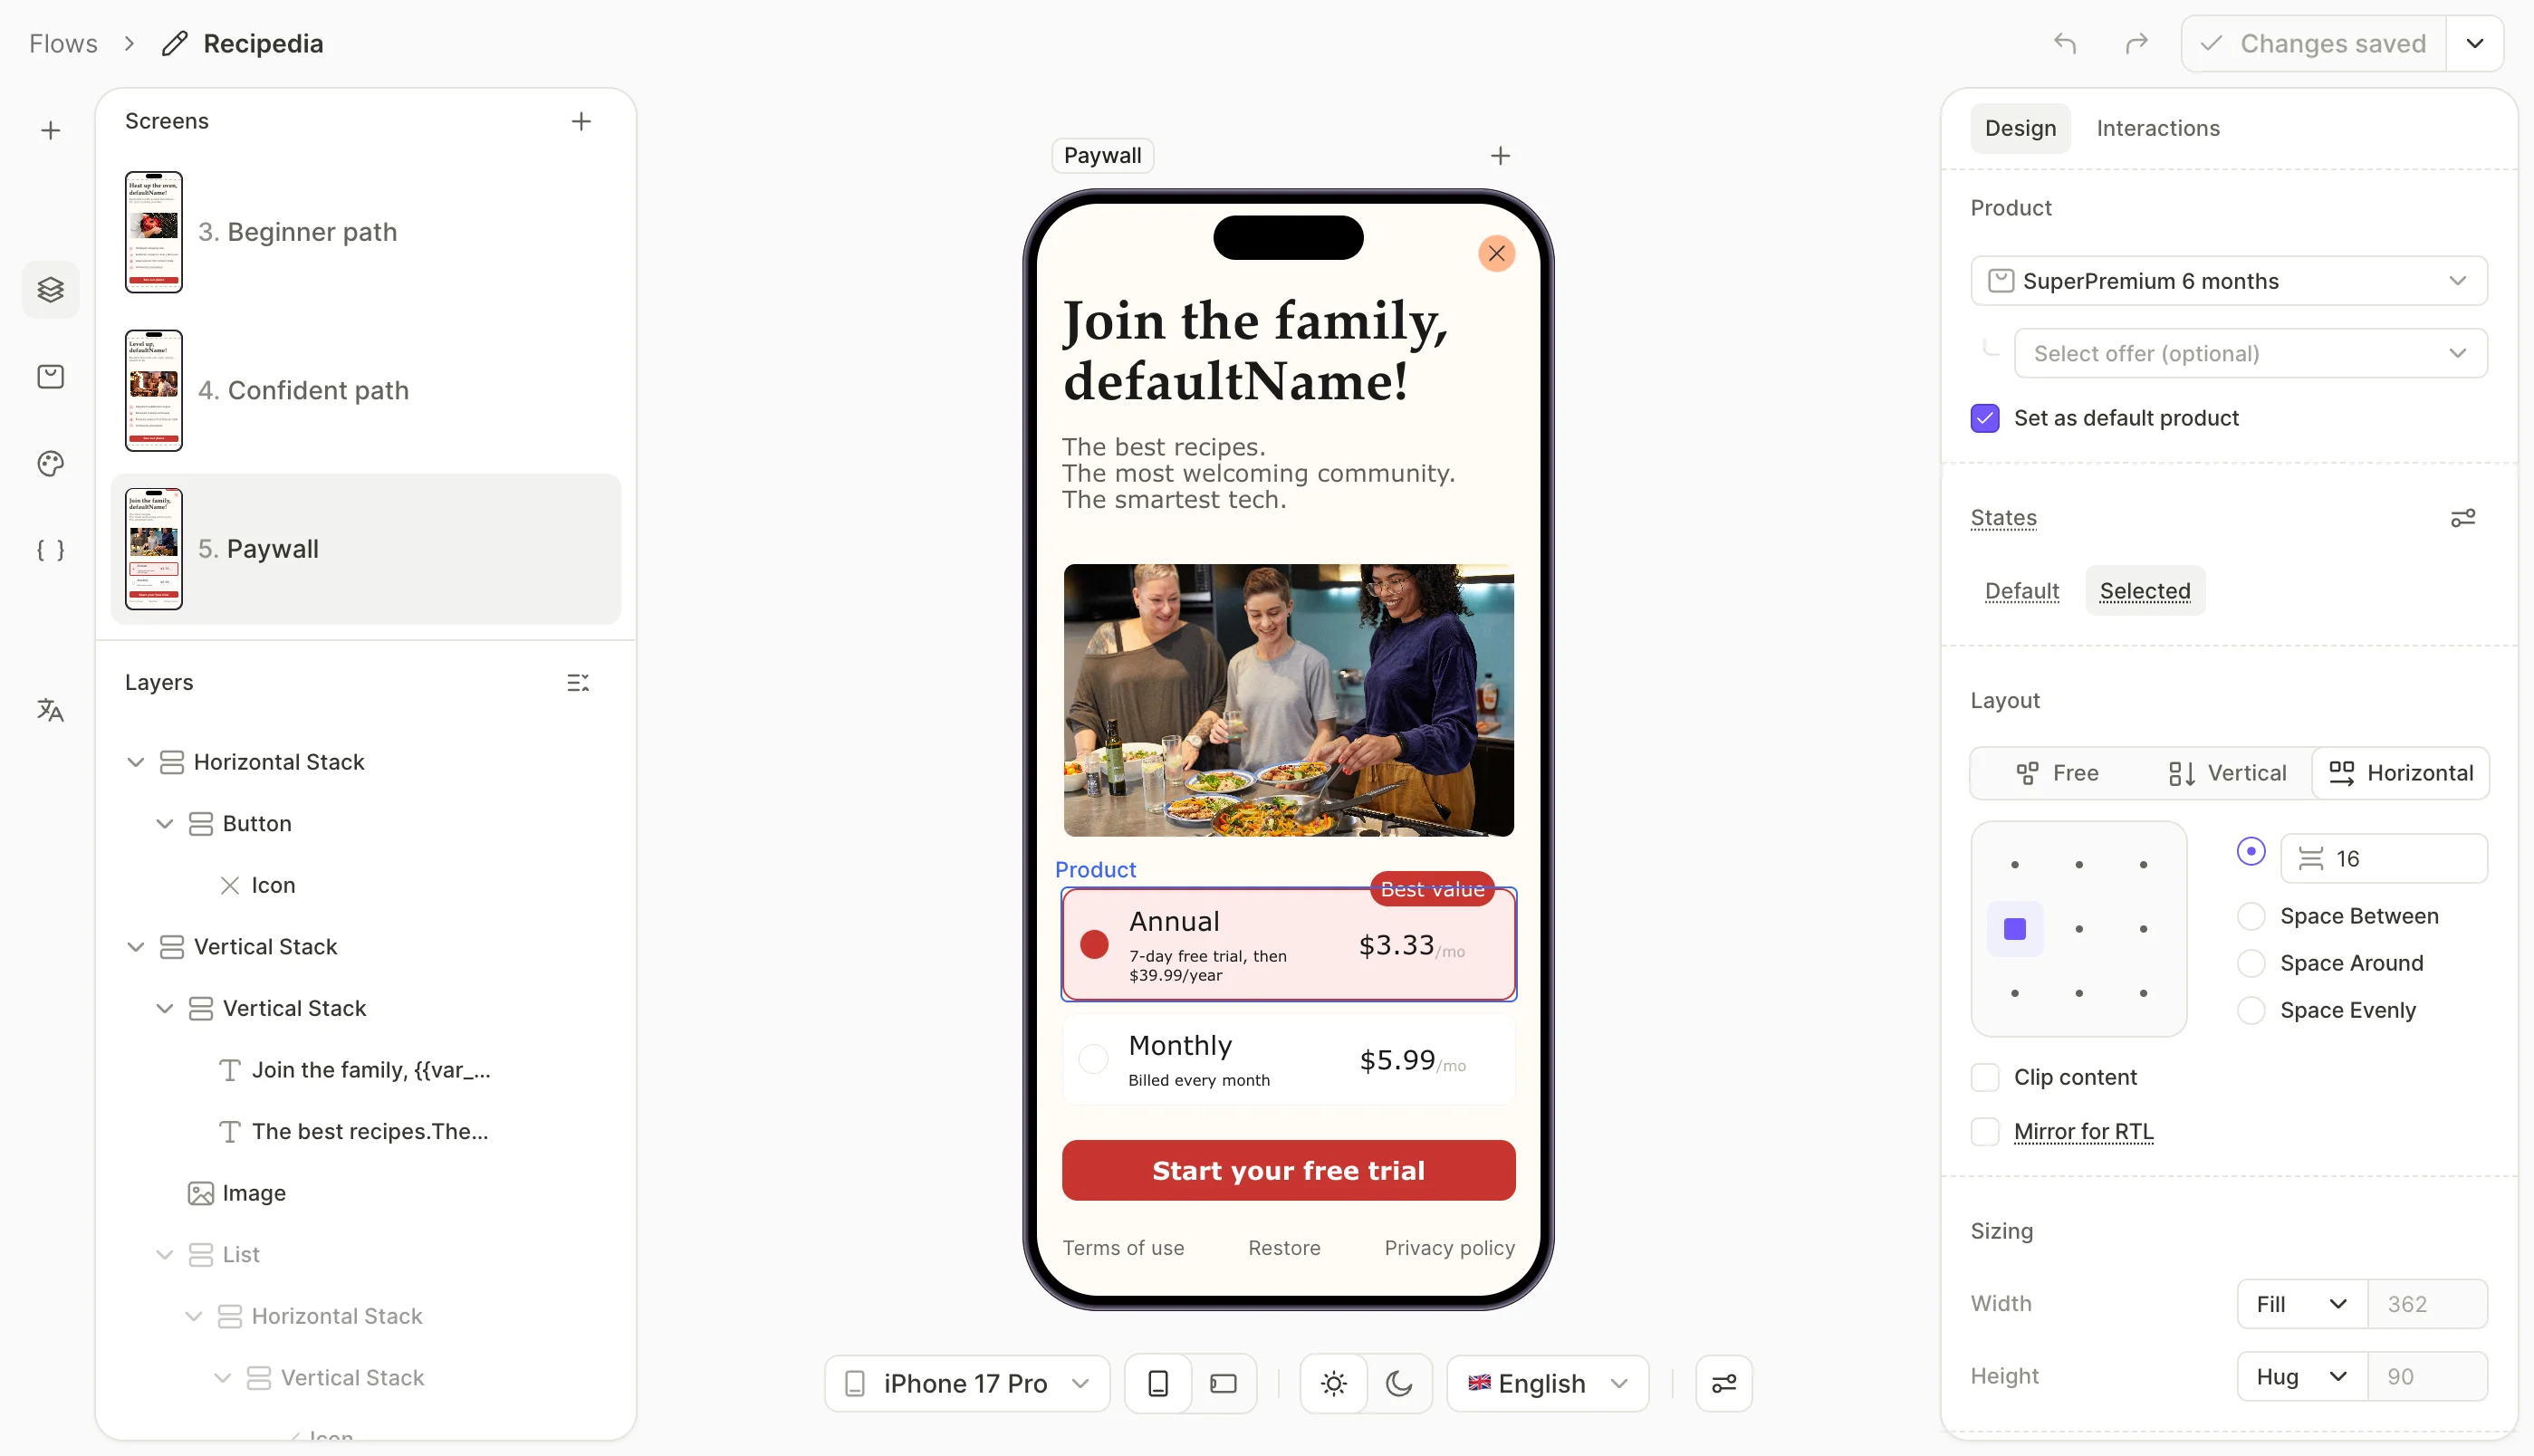
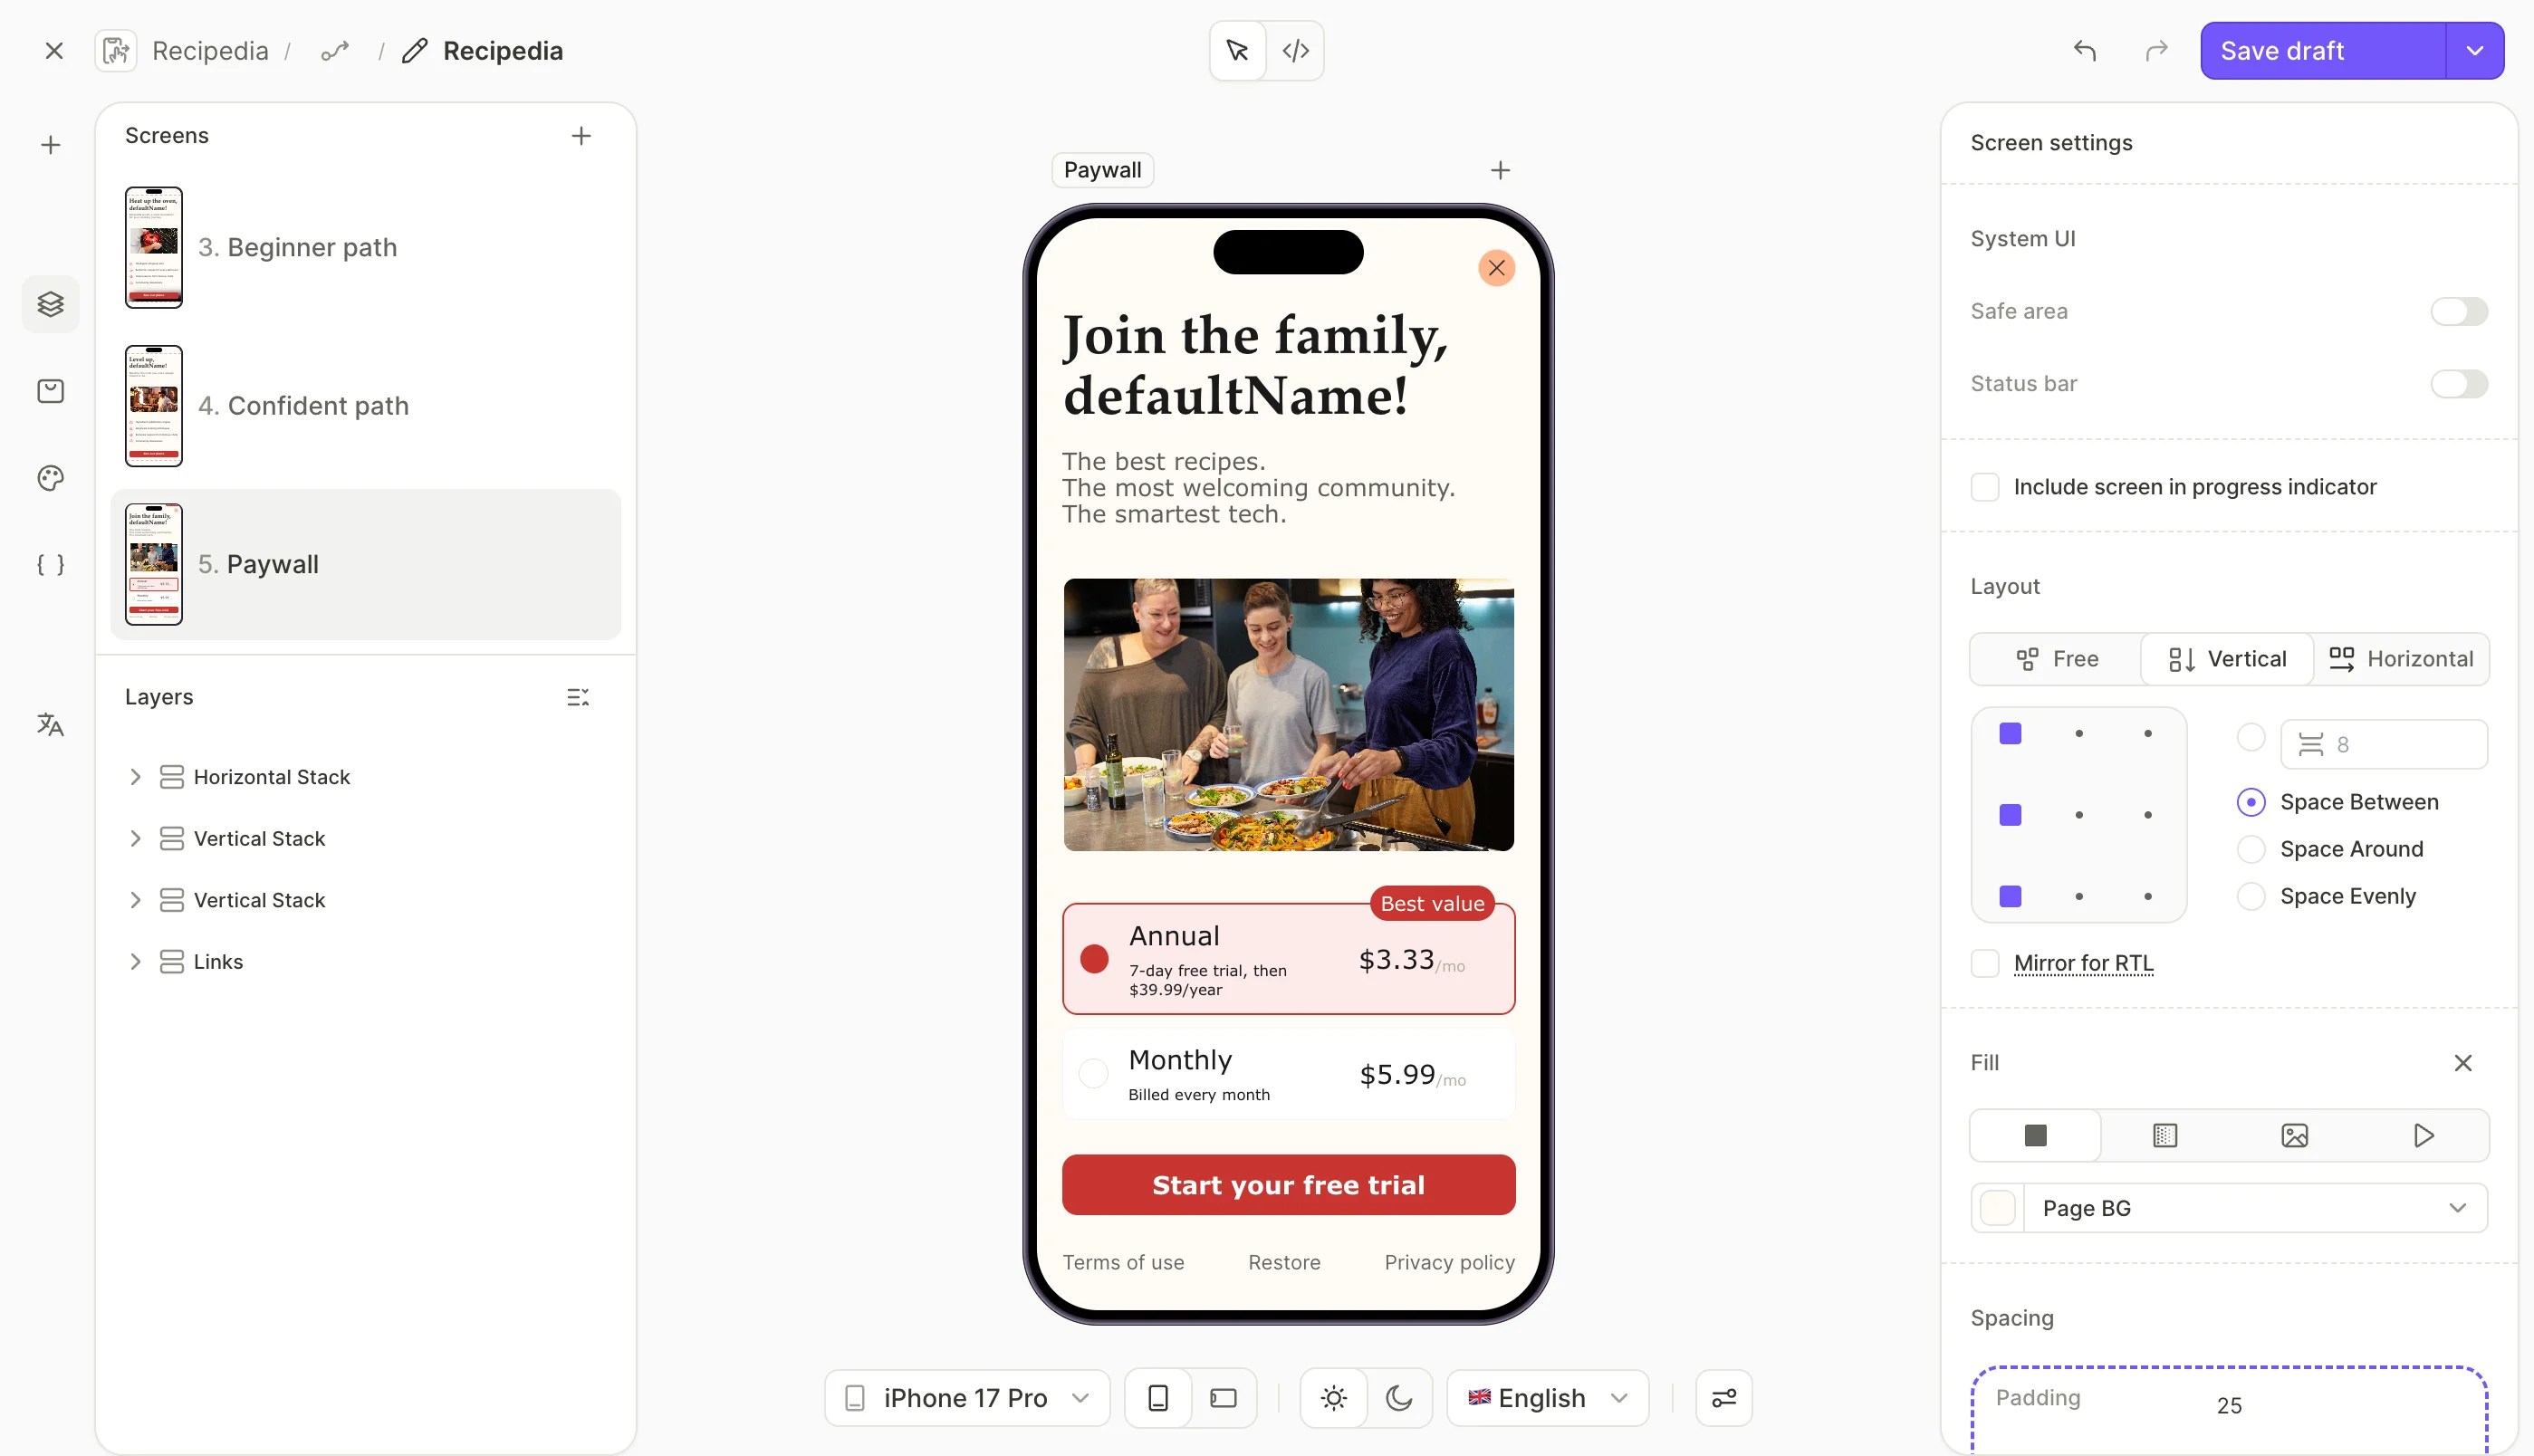
review

diff --git a/src/assets/Inline/_gallery.html b/src/assets/Inline/_gallery.html
@@ -59,6 +59,7 @@
 <div class="card" data-copy="<Inline id=&quot;align-middle.svg&quot; alt=&quot;Align Middle&quot; />"><div class="icon"><svg width="16" height="16" viewBox="0 0 16 16" fill="none" xmlns="http://www.w3.org/2000/svg"><path d="M2 7.99998H14M8 1.33331V5.66665M8 5.66665L10.6667 2.99998M8 5.66665L5.33333 2.99998M8 14.6666V10.3333M8 10.3333L10.6667 13M8 10.3333L5.33333 13" stroke="currentColor" stroke-width="1.25" stroke-linecap="round" stroke-linejoin="round"></path></svg></div><div class="name">align-middle.svg</div></div>
 <div class="card" data-copy="<Inline id=&quot;align-right.svg&quot; alt=&quot;Align Right&quot; />"><div class="icon"><svg width="16" height="16" viewBox="0 0 16 16" fill="none" xmlns="http://www.w3.org/2000/svg"><path d="M14.0001 6.66667H5.33341M14.0001 4H2.66675M14.0001 9.33333H2.66675M14.0001 12H5.33341" stroke="currentColor" stroke-width="1.25" stroke-linecap="round" stroke-linejoin="round"></path></svg></div><div class="name">align-right.svg</div></div>
 <div class="card" data-copy="<Inline id=&quot;align-top.svg&quot; alt=&quot;Align Top&quot; />"><div class="icon"><svg width="16" height="16" viewBox="0 0 16 16" fill="none" xmlns="http://www.w3.org/2000/svg"><path d="M14 2H2M8 14V4.66667M8 4.66667L3.33333 9.33333M8 4.66667L12.6667 9.33333" stroke="currentColor" stroke-width="1.25" stroke-linecap="round" stroke-linejoin="round"></path></svg></div><div class="name">align-top.svg</div></div>
+<div class="card" data-copy="<Inline id=&quot;app.svg&quot; alt=&quot;App&quot; />"><div class="icon"><svg width="16" height="16" viewBox="0 0 16 16" fill="none" xmlns="http://www.w3.org/2000/svg"><path d="M5.7943 14.4412C5.96891 14.7389 6.35184 14.8388 6.6496 14.6642C6.94735 14.4895 7.04719 14.1066 6.87258 13.8089L6.33344 14.125L5.7943 14.4412ZM4.95907 11.7813L4.4157 12.0902L4.41993 12.0974L4.95907 11.7813ZM6.58282 10.8438L6.04364 11.1599C6.04645 11.1646 6.04933 11.1694 6.05226 11.1741L6.58282 10.8438ZM7.45844 12.25L6.92789 12.5804C7.07537 12.8172 7.36198 12.9276 7.63024 12.8509C7.89851 12.7742 8.08344 12.529 8.08344 12.25H7.45844ZM8.70844 9.81251C8.70844 10.1577 8.98827 10.4375 9.33344 10.4375C9.67862 10.4375 9.95844 10.1577 9.95844 9.81251H9.33344H8.70844ZM11.2084 9.81251H11.8334H11.2084ZM10.5834 10.5625C10.5834 10.9077 10.8633 11.1875 11.2084 11.1875C11.5536 11.1875 11.8334 10.9077 11.8334 10.5625H11.2084H10.5834ZM13.0834 10.5625H13.7084H13.0834ZM12.1494 13.8455C11.9951 14.1542 12.1202 14.5297 12.4289 14.684C12.7377 14.8384 13.1131 14.7133 13.2675 14.4045L12.7084 14.125L12.1494 13.8455ZM13.9004 4.68307C13.6563 4.43899 13.2606 4.43899 13.0165 4.68307C12.7724 4.92715 12.7724 5.32288 13.0165 5.56696L13.4584 5.12501L13.9004 4.68307ZM14.9584 6.62501L15.4004 7.06696C15.6445 6.82288 15.6445 6.42715 15.4004 6.18307L14.9584 6.62501ZM13.0165 7.68307C12.7724 7.92715 12.7724 8.32288 13.0165 8.56696C13.2606 8.81103 13.6563 8.81103 13.9004 8.56696L13.4584 8.12501L13.0165 7.68307ZM11.5834 6.00001C11.2383 6.00001 10.9584 6.27984 10.9584 6.62501C10.9584 6.97019 11.2383 7.25001 11.5834 7.25001V6.62501V6.00001ZM3.7335 15.2916C4.07867 15.2916 4.3585 15.0118 4.3585 14.6666C4.3585 14.3215 4.07867 14.0416 3.7335 14.0416V14.6666V15.2916ZM10.0418 4.6765C10.0418 5.02168 10.3216 5.3015 10.6668 5.3015C11.012 5.3015 11.2918 5.02168 11.2918 4.6765H10.6668H10.0418ZM6.33344 14.125L6.87258 13.8089L5.49821 11.4651L4.95907 11.7813L4.41993 12.0974L5.7943 14.4412L6.33344 14.125ZM4.95907 11.7813L5.50239 11.4724C5.4616 11.4006 5.45085 11.3157 5.47247 11.236L4.8693 11.0723L4.26614 10.9085C4.15803 11.3067 4.21181 11.7315 4.41575 12.0902L4.95907 11.7813ZM4.8693 11.0723L5.47247 11.236C5.49409 11.1564 5.54633 11.0885 5.6178 11.0473L5.30529 10.506L4.99279 9.96474C4.63546 10.1711 4.37424 10.5103 4.26614 10.9085L4.8693 11.0723ZM5.30529 10.506L5.6178 11.0473C5.68926 11.006 5.77415 10.9947 5.85393 11.0158L6.01368 10.4115L6.17343 9.8073C5.77453 9.70184 5.35011 9.75844 4.99279 9.96474L5.30529 10.506ZM6.01368 10.4115L5.85393 11.0158C5.93371 11.0369 6.00191 11.0887 6.04364 11.1599L6.58282 10.8438L7.122 10.5277C6.91332 10.1717 6.57233 9.91276 6.17343 9.8073L6.01368 10.4115ZM6.58282 10.8438L6.05226 11.1741L6.92789 12.5804L7.45844 12.25L7.989 11.9197L7.11337 10.5134L6.58282 10.8438ZM7.45844 12.25H8.08344V7.18751H7.45844H6.83344V12.25H7.45844ZM7.45844 7.18751H8.08344C8.08344 7.10463 8.11637 7.02515 8.17497 6.96654L7.73303 6.5246L7.29109 6.08266C6.99806 6.37569 6.83344 6.77311 6.83344 7.18751H7.45844ZM7.73303 6.5246L8.17497 6.96654C8.23358 6.90794 8.31306 6.87501 8.39594 6.87501V6.25001V5.62501C7.98154 5.62501 7.58412 5.78963 7.29109 6.08266L7.73303 6.5246ZM8.39594 6.25001V6.87501C8.47882 6.87501 8.55831 6.90794 8.61691 6.96654L9.05886 6.5246L9.5008 6.08266C9.20777 5.78963 8.81034 5.62501 8.39594 5.62501V6.25001ZM9.05886 6.5246L8.61691 6.96654C8.67552 7.02515 8.70844 7.10464 8.70844 7.18751H9.33344H9.95844C9.95844 6.77311 9.79382 6.37568 9.5008 6.08266L9.05886 6.5246ZM9.33344 7.18751H8.70844V9.81251H9.33344H9.95844V7.18751H9.33344ZM9.33344 9.81251H9.95844C9.95844 9.72963 9.99137 9.65015 10.05 9.59154L9.60803 9.1496L9.16609 8.70766C8.87307 9.00068 8.70844 9.39811 8.70844 9.81251H9.33344ZM13.4584 5.12501L13.0165 5.56696L14.5165 7.06696L14.9584 6.62501L15.4004 6.18307L13.9004 4.68307L13.4584 5.12501ZM14.9584 6.62501L14.5165 6.18307L13.0165 7.68307L13.4584 8.12501L13.9004 8.56696L15.4004 7.06696L14.9584 6.62501ZM11.5834 6.62501V7.25001H14.9584V6.62501V6.00001H11.5834V6.62501Z" fill="currentColor"></path></svg></div><div class="name">app.svg</div></div>
 <div class="card" data-copy="<Inline id=&quot;border-dashed.svg&quot; alt=&quot;Border Dashed&quot; />"><div class="icon"><svg width="16" height="16" viewBox="0 0 16 16" fill="none" xmlns="http://www.w3.org/2000/svg"><path d="M2 3.5V2.5C2 2.36739 2.05268 2.24021 2.14645 2.14645C2.24021 2.05268 2.36739 2 2.5 2H4.5" stroke="currentColor" stroke-width="1.25" stroke-linecap="round" stroke-linejoin="round"></path><path d="M2 9.23633L2 6.83936" stroke="currentColor" stroke-width="1.25" stroke-linecap="round" stroke-linejoin="round"></path><path d="M4.5 14H2.5C2.36739 14 2.24021 13.9473 2.14645 13.8536C2.05268 13.7598 2 13.6326 2 13.5V12.5" stroke="currentColor" stroke-width="1.25" stroke-linecap="round" stroke-linejoin="round"></path><path d="M9 14H7" stroke="currentColor" stroke-width="1.25" stroke-linecap="round" stroke-linejoin="round"></path><path d="M14 12.5V13.5C14 13.6326 13.9473 13.7598 13.8536 13.8536C13.7598 13.9473 13.6326 14 13.5 14H11.5" stroke="currentColor" stroke-width="1.25" stroke-linecap="round" stroke-linejoin="round"></path><path d="M14 6.83936L14 9.23633" stroke="currentColor" stroke-width="1.25" stroke-linecap="round" stroke-linejoin="round"></path><path d="M11.5 2H13.5C13.6326 2 13.7598 2.05268 13.8536 2.14645C13.9473 2.24021 14 2.36739 14 2.5V3.5" stroke="currentColor" stroke-width="1.25" stroke-linecap="round" stroke-linejoin="round"></path><path d="M7 2H9" stroke="currentColor" stroke-width="1.25" stroke-linecap="round" stroke-linejoin="round"></path></svg></div><div class="name">border-dashed.svg</div></div>
 <div class="card" data-copy="<Inline id=&quot;border-none.svg&quot; alt=&quot;Border None&quot; />"><div class="icon"><svg width="16" height="16" viewBox="0 0 16 16" fill="none" xmlns="http://www.w3.org/2000/svg"><path d="M3.33325 8H12.6666" stroke="currentColor" stroke-width="1.25" stroke-linecap="round" stroke-linejoin="round"></path></svg></div><div class="name">border-none.svg</div></div>
 <div class="card" data-copy="<Inline id=&quot;border-outline.svg&quot; alt=&quot;Border Outline&quot; />"><div class="icon"><svg width="16" height="16" viewBox="0 0 16 16" fill="none" xmlns="http://www.w3.org/2000/svg"><path d="M13.5 2H2.5C2.22386 2 2 2.26863 2 2.6V13.4C2 13.7314 2.22386 14 2.5 14H13.5C13.7761 14 14 13.7314 14 13.4V2.6C14 2.26863 13.7761 2 13.5 2Z" stroke="currentColor" stroke-width="1.25" stroke-linecap="round" stroke-linejoin="round"></path></svg></div><div class="name">border-outline.svg</div></div>
@@ -66,6 +67,7 @@
 <div class="card" data-copy="<Inline id=&quot;collapse-layer.svg&quot; alt=&quot;Collapse Layer&quot; />"><div class="icon"><svg width="16" height="16" viewBox="0 0 16 16" fill="none" xmlns="http://www.w3.org/2000/svg"><path d="M4 6L8 10L12 6" stroke="currentColor" stroke-width="1.25" stroke-linecap="round" stroke-linejoin="round"></path></svg></div><div class="name">collapse-layer.svg</div></div>
 <div class="card" data-copy="<Inline id=&quot;collapse.svg&quot; alt=&quot;Collapse&quot; />"><div class="icon"><svg width="16" height="16" viewBox="0 0 16 16" fill="none" xmlns="http://www.w3.org/2000/svg" class="size-4"><path d="M3 8H8.5M3 4H8.5M3 12H8.5M13.5 12L12.25 10.75L11 12M10.8086 4L12.0586 5.25L13.3086 4" stroke="currentColor" stroke-width="1.25" stroke-linecap="round" stroke-linejoin="round"></path></svg></div><div class="name">collapse.svg</div></div>
 <div class="card" data-copy="<Inline id=&quot;context.svg&quot; alt=&quot;Context&quot; />"><div class="icon"><svg width="16" height="16" viewBox="0 0 16 16" fill="none" xmlns="http://www.w3.org/2000/svg" class="size-4"><path d="M8.00016 8.66663C8.36835 8.66663 8.66683 8.36815 8.66683 7.99996C8.66683 7.63177 8.36835 7.33329 8.00016 7.33329C7.63197 7.33329 7.3335 7.63177 7.3335 7.99996C7.3335 8.36815 7.63197 8.66663 8.00016 8.66663Z" fill="currentColor"></path><path d="M8.00016 3.99996C8.36835 3.99996 8.66683 3.70148 8.66683 3.33329C8.66683 2.9651 8.36835 2.66663 8.00016 2.66663C7.63197 2.66663 7.3335 2.9651 7.3335 3.33329C7.3335 3.70148 7.63197 3.99996 8.00016 3.99996Z" fill="currentColor"></path><path d="M8.00016 13.3333C8.36835 13.3333 8.66683 13.0348 8.66683 12.6666C8.66683 12.2984 8.36835 12 8.00016 12C7.63197 12 7.3335 12.2984 7.3335 12.6666C7.3335 13.0348 7.63197 13.3333 8.00016 13.3333Z" fill="currentColor"></path><path d="M8.00016 8.66663C8.36835 8.66663 8.66683 8.36815 8.66683 7.99996C8.66683 7.63177 8.36835 7.33329 8.00016 7.33329C7.63197 7.33329 7.3335 7.63177 7.3335 7.99996C7.3335 8.36815 7.63197 8.66663 8.00016 8.66663Z" stroke="currentColor" stroke-width="1.25" stroke-linecap="round" stroke-linejoin="round"></path><path d="M8.00016 3.99996C8.36835 3.99996 8.66683 3.70148 8.66683 3.33329C8.66683 2.9651 8.36835 2.66663 8.00016 2.66663C7.63197 2.66663 7.3335 2.9651 7.3335 3.33329C7.3335 3.70148 7.63197 3.99996 8.00016 3.99996Z" stroke="currentColor" stroke-width="1.25" stroke-linecap="round" stroke-linejoin="round"></path><path d="M8.00016 13.3333C8.36835 13.3333 8.66683 13.0348 8.66683 12.6666C8.66683 12.2984 8.36835 12 8.00016 12C7.63197 12 7.3335 12.2984 7.3335 12.6666C7.3335 13.0348 7.63197 13.3333 8.00016 13.3333Z" stroke="currentColor" stroke-width="1.25" stroke-linecap="round" stroke-linejoin="round"></path></svg></div><div class="name">context.svg</div></div>
+<div class="card" data-copy="<Inline id=&quot;cursor.svg&quot; alt=&quot;Cursor&quot; />"><div class="icon"><svg width="16" height="16" viewBox="0 0 16 16" fill="none" xmlns="http://www.w3.org/2000/svg"><path d="M8.66676 8.66667L12.6668 12.6667M11.9762 7.16753L8.63569 8.30212C8.54437 8.33314 8.4987 8.34865 8.46072 8.37476C8.42708 8.39788 8.39797 8.42699 8.37485 8.46063C8.34874 8.49861 8.33323 8.54427 8.30221 8.6356L7.16762 11.9761C7.02693 12.3903 6.95659 12.5974 6.84659 12.66C6.75128 12.7143 6.63537 12.7182 6.53662 12.6705C6.42265 12.6154 6.33854 12.4135 6.1703 12.0097L2.49815 3.19549C2.34205 2.8208 2.264 2.63345 2.30198 2.51624C2.33493 2.41455 2.41464 2.33483 2.51633 2.30188C2.63354 2.26391 2.82089 2.34196 3.19558 2.49806L12.0098 6.17021C12.4136 6.33845 12.6155 6.42256 12.6706 6.53653C12.7183 6.63528 12.7144 6.75118 12.6601 6.8465C12.5975 6.9565 12.3904 7.02684 11.9762 7.16753Z" stroke="currentColor" stroke-width="1.25" stroke-linecap="round" stroke-linejoin="round"></path></svg></div><div class="name">cursor.svg</div></div>
 <div class="card" data-copy="<Inline id=&quot;dark-mode.svg&quot; alt=&quot;Dark Mode&quot; />"><div class="icon"><svg width="16" height="16" viewBox="0 0 16 16" fill="none" xmlns="http://www.w3.org/2000/svg"><g clip-path="url(#dark-mode-clip0_459_300)"><path d="M14.6365 8.63773C13.7185 10.2479 11.986 11.3335 9.99992 11.3335C7.0544 11.3335 4.66659 8.94573 4.66659 6.00021C4.66659 4.01396 5.75237 2.28132 7.36276 1.36343C3.97975 1.6842 1.33325 4.53306 1.33325 8.00005C1.33325 11.6819 4.31802 14.6667 7.99992 14.6667C11.4667 14.6667 14.3155 12.0205 14.6365 8.63773Z" stroke="currentColor" stroke-width="1.25" stroke-linecap="round" stroke-linejoin="round"></path></g><defs><clipPath id="dark-mode-clip0_459_300"><rect width="16" height="16" fill="white"></rect></clipPath></defs></svg></div><div class="name">dark-mode.svg</div></div>
 <div class="card" data-copy="<Inline id=&quot;device-outline.svg&quot; alt=&quot;Device Outline&quot; />"><div class="icon"><svg width="16" height="16" viewBox="0 0 16 16" fill="none"><path d="M12.6667 4.66667V11.3333M3.33333 4.66667V11.3333M11.3333 3.33333L4.66667 3.33333M11.3333 12.6667H4.66667M3.06667 4.66667H3.6C3.97337 4.66667 4.16005 4.66667 4.30266 4.594C4.4281 4.53009 4.53009 4.4281 4.594 4.30266C4.66667 4.16005 4.66667 3.97337 4.66667 3.6V3.06667C4.66667 2.6933 4.66667 2.50661 4.594 2.36401C4.53009 2.23856 4.4281 2.13658 4.30266 2.07266C4.16005 2 3.97337 2 3.6 2H3.06667C2.6933 2 2.50661 2 2.36401 2.07266C2.23856 2.13658 2.13658 2.23856 2.07266 2.36401C2 2.50661 2 2.6933 2 3.06667V3.6C2 3.97337 2 4.16005 2.07266 4.30266C2.13658 4.4281 2.23856 4.53009 2.36401 4.594C2.50661 4.66667 2.6933 4.66667 3.06667 4.66667ZM3.06667 14H3.6C3.97337 14 4.16005 14 4.30266 13.9273C4.4281 13.8634 4.53009 13.7614 4.594 13.636C4.66667 13.4934 4.66667 13.3067 4.66667 12.9333V12.4C4.66667 12.0266 4.66667 11.8399 4.594 11.6973C4.53009 11.5719 4.4281 11.4699 4.30266 11.406C4.16005 11.3333 3.97337 11.3333 3.6 11.3333H3.06667C2.6933 11.3333 2.50661 11.3333 2.36401 11.406C2.23856 11.4699 2.13658 11.5719 2.07266 11.6973C2 11.8399 2 12.0266 2 12.4V12.9333C2 13.3067 2 13.4934 2.07266 13.636C2.13658 13.7614 2.23856 13.8634 2.36401 13.9273C2.50661 14 2.6933 14 3.06667 14ZM12.4 4.66667H12.9333C13.3067 4.66667 13.4934 4.66667 13.636 4.594C13.7614 4.53009 13.8634 4.4281 13.9273 4.30266C14 4.16005 14 3.97337 14 3.6V3.06667C14 2.6933 14 2.50661 13.9273 2.36401C13.8634 2.23856 13.7614 2.13658 13.636 2.07266C13.4934 2 13.3067 2 12.9333 2H12.4C12.0266 2 11.8399 2 11.6973 2.07266C11.5719 2.13658 11.4699 2.23856 11.406 2.36401C11.3333 2.50661 11.3333 2.6933 11.3333 3.06667V3.6C11.3333 3.97337 11.3333 4.16005 11.406 4.30266C11.4699 4.4281 11.5719 4.53009 11.6973 4.594C11.8399 4.66667 12.0266 4.66667 12.4 4.66667ZM12.4 14H12.9333C13.3067 14 13.4934 14 13.636 13.9273C13.7614 13.8634 13.8634 13.7614 13.9273 13.636C14 13.4934 14 13.3067 14 12.9333V12.4C14 12.0266 14 11.8399 13.9273 11.6973C13.8634 11.5719 13.7614 11.4699 13.636 11.406C13.4934 11.3333 13.3067 11.3333 12.9333 11.3333H12.4C12.0266 11.3333 11.8399 11.3333 11.6973 11.406C11.5719 11.4699 11.4699 11.5719 11.406 11.6973C11.3333 11.8399 11.3333 12.0266 11.3333 12.4V12.9333C11.3333 13.3067 11.3333 13.4934 11.406 13.636C11.4699 13.7614 11.5719 13.8634 11.6973 13.9273C11.8399 14 12.0266 14 12.4 14Z" stroke="currentColor" stroke-width="1.25" stroke-linecap="round" stroke-linejoin="round"/></svg></div><div class="name">device-outline.svg</div></div>
 <div class="card" data-copy="<Inline id=&quot;download.svg&quot; alt=&quot;Download&quot; />"><div class="icon"><svg width="16" height="16" viewBox="0 0 16 16" fill="none"><path d="M14.5 12.5C14.5 12.7652 14.3946 13.0195 14.207 13.207C14.0195 13.3946 13.7652 13.5 13.5 13.5H12.2373C12.6251 13.2046 12.9796 12.8685 13.2979 12.5H13.5V12.2549C13.9109 11.7332 14.2495 11.1526 14.5 10.5264V12.5ZM1.5 10.5264C1.75049 11.1526 2.08907 11.7332 2.5 12.2549V12.5H2.70215C3.0204 12.8685 3.37489 13.2046 3.7627 13.5H2.5C2.23478 13.5 1.98051 13.3946 1.79297 13.207C1.60543 13.0195 1.5 12.7652 1.5 12.5V10.5264ZM3.58203 2.5C2.66726 3.24537 1.94533 4.21712 1.5 5.33008V3.5C1.5 3.23478 1.60543 2.98051 1.79297 2.79297C1.98051 2.60543 2.23478 2.5 2.5 2.5H3.58203ZM13.5 2.5C13.7652 2.5 14.0195 2.60543 14.207 2.79297C14.3946 2.98051 14.5 3.23478 14.5 3.5V5.33008C14.0547 4.21712 13.3327 3.24537 12.418 2.5H13.5Z" fill="currentColor"/><path d="M4.57142 8.40063C3.98061 8.40063 3.40307 8.57583 2.91183 8.90407C2.42059 9.2323 2.03771 9.69884 1.81162 10.2447C1.58552 10.7905 1.52637 11.3911 1.64163 11.9706C1.75689 12.5501 2.04139 13.0823 2.45916 13.5001C2.87692 13.9179 3.40919 14.2024 3.98865 14.3176C4.56811 14.4329 5.16873 14.3737 5.71457 14.1476C6.26041 13.9215 6.72694 13.5387 7.05518 13.0474C7.38341 12.5562 7.55861 11.9786 7.55861 11.3878C7.55777 10.5958 7.24278 9.83651 6.68276 9.27649C6.12273 8.71646 5.36341 8.40147 4.57142 8.40063ZM5.65313 11.7802L4.73399 12.6993C4.71265 12.7207 4.68731 12.7376 4.65941 12.7492C4.63152 12.7608 4.60162 12.7667 4.57142 12.7667C4.54122 12.7667 4.51132 12.7608 4.48343 12.7492C4.45553 12.7376 4.43019 12.7207 4.40885 12.6993L3.48971 11.7802C3.4466 11.7371 3.42237 11.6786 3.42237 11.6176C3.42237 11.5566 3.4466 11.4982 3.48971 11.455C3.53283 11.4119 3.59131 11.3877 3.65228 11.3877C3.71326 11.3877 3.77174 11.4119 3.81486 11.455L4.34164 11.9821V10.2389C4.34164 10.178 4.36585 10.1195 4.40894 10.0764C4.45203 10.0333 4.51048 10.0091 4.57142 10.0091C4.63236 10.0091 4.69081 10.0333 4.7339 10.0764C4.77699 10.1195 4.8012 10.178 4.8012 10.2389V11.9821L5.32798 11.455C5.3711 11.4119 5.42958 11.3877 5.49055 11.3877C5.55153 11.3877 5.61001 11.4119 5.65313 11.455C5.69624 11.4982 5.72047 11.5566 5.72047 11.6176C5.72047 11.6786 5.69624 11.7371 5.65313 11.7802Z" fill="currentColor"/></svg></div><div class="name">download.svg</div></div>
@@ -75,6 +77,7 @@
 <div class="card" data-copy="<Inline id=&quot;fill-image.svg&quot; alt=&quot;Fill Image&quot; />"><div class="icon"><svg width="16" height="16" viewBox="0 0 16 16" fill="none" xmlns="http://www.w3.org/2000/svg"><path d="M2.84798 13.8186L7.24567 9.42091C7.50968 9.1569 7.64169 9.0249 7.79391 8.97544C7.9278 8.93193 8.07203 8.93193 8.20593 8.97544C8.35815 9.0249 8.49016 9.15691 8.75417 9.42091L13.1225 13.7893M9.33325 10L11.2457 8.08758C11.5097 7.82357 11.6417 7.69156 11.7939 7.6421C11.9278 7.5986 12.072 7.5986 12.2059 7.6421C12.3581 7.69156 12.4902 7.82357 12.7542 8.08758L14.6666 10M6.66659 6C6.66659 6.73638 6.06963 7.33333 5.33325 7.33333C4.59687 7.33333 3.99992 6.73638 3.99992 6C3.99992 5.26362 4.59687 4.66667 5.33325 4.66667C6.06963 4.66667 6.66659 5.26362 6.66659 6ZM4.53325 14H11.4666C12.5867 14 13.1467 14 13.5746 13.782C13.9509 13.5903 14.2569 13.2843 14.4486 12.908C14.6666 12.4802 14.6666 11.9201 14.6666 10.8V5.2C14.6666 4.0799 14.6666 3.51984 14.4486 3.09202C14.2569 2.71569 13.9509 2.40973 13.5746 2.21799C13.1467 2 12.5867 2 11.4666 2H4.53325C3.41315 2 2.85309 2 2.42527 2.21799C2.04895 2.40973 1.74299 2.71569 1.55124 3.09202C1.33325 3.51984 1.33325 4.0799 1.33325 5.2V10.8C1.33325 11.9201 1.33325 12.4802 1.55124 12.908C1.74299 13.2843 2.04895 13.5903 2.42527 13.782C2.85309 14 3.41315 14 4.53325 14Z" stroke="currentColor" stroke-width="1.25" stroke-linecap="round" stroke-linejoin="round"></path></svg></div><div class="name">fill-image.svg</div></div>
 <div class="card" data-copy="<Inline id=&quot;fill-solid.svg&quot; alt=&quot;Fill Solid&quot; />"><div class="icon"><svg xmlns="http://www.w3.org/2000/svg" width="16" height="16" viewBox="0 0 16 16" fill="none"><path d="M2.92285 2.0625H13.0771C13.5429 2.06264 13.9375 2.51279 13.9375 3.09082V12.9092C13.9375 13.4872 13.5429 13.9374 13.0771 13.9375H2.92285C2.45707 13.9374 2.06254 13.4872 2.0625 12.9092V3.09082L2.06738 2.98438C2.11234 2.45847 2.48609 2.06264 2.92285 2.0625Z" fill="currentColor" stroke="currentColor" stroke-width="0.125"></path></svg></div><div class="name">fill-solid.svg</div></div>
 <div class="card" data-copy="<Inline id=&quot;fill-video.svg&quot; alt=&quot;Fill Video&quot; />"><div class="icon"><svg width="16" height="16" viewBox="0 0 16 16" fill="none" xmlns="http://www.w3.org/2000/svg"><path d="M3.33325 3.32642C3.33325 2.67898 3.33325 2.35526 3.46825 2.17681C3.58585 2.02135 3.7656 1.92515 3.96018 1.91353C4.18354 1.9002 4.45289 2.07977 4.9916 2.4389L12.002 7.11248C12.4471 7.40923 12.6697 7.55761 12.7472 7.74462C12.815 7.90813 12.815 8.09188 12.7472 8.25538C12.6697 8.4424 12.4471 8.59077 12.002 8.88752L4.9916 13.5611C4.45289 13.9202 4.18354 14.0998 3.96018 14.0865C3.7656 14.0749 3.58585 13.9787 3.46825 13.8232C3.33325 13.6447 3.33325 13.321 3.33325 12.6736V3.32642Z" stroke="currentColor" stroke-width="1.25" stroke-linecap="round" stroke-linejoin="round"></path></svg></div><div class="name">fill-video.svg</div></div>
+<div class="card" data-copy="<Inline id=&quot;flows.svg&quot; alt=&quot;Flows&quot; />"><div class="icon"><svg width="16" height="16" viewBox="0 0 16 16" fill="none" xmlns="http://www.w3.org/2000/svg"><path d="M5 11C5 12.1046 4.10457 13 3 13C1.89543 13 1 12.1046 1 11C1 9.89543 1.89543 9 3 9C4.10457 9 5 9.89543 5 11ZM5 11C10.5 11 7.5 5 13 5H15M13 3L15 5M15 5L13 7" stroke="currentColor" stroke-width="1.25" stroke-linecap="round" stroke-linejoin="round"></path></svg></div><div class="name">flows.svg</div></div>
 <div class="card" data-copy="<Inline id=&quot;font-select.svg&quot; alt=&quot;Font Select&quot; />"><div class="icon"><svg width="16" height="16" viewBox="0 0 16 16" fill="none" xmlns="http://www.w3.org/2000/svg"><g clip-path="url(#font-select-clip0_459_603)"><path d="M9 12L5 3.5L1 12" stroke="currentColor" stroke-width="1.25" stroke-linecap="round" stroke-linejoin="round"></path><path d="M12.5 12C13.6046 12 14.5 11.2165 14.5 10.25C14.5 9.2835 13.6046 8.5 12.5 8.5C11.3954 8.5 10.5 9.2835 10.5 10.25C10.5 11.2165 11.3954 12 12.5 12Z" stroke="currentColor" stroke-width="1.25" stroke-linecap="round" stroke-linejoin="round"></path><path d="M14.5 12V8.25C14.5 7.28375 13.6044 6.5 12.5 6.5C11.9025 6.5 11.3663 6.63625 11 7" stroke="currentColor" stroke-width="1.25" stroke-linecap="round" stroke-linejoin="round"></path><path d="M7.82377 9.5H2.17627" stroke="currentColor" stroke-width="1.25" stroke-linecap="round" stroke-linejoin="round"></path></g><defs><clipPath id="font-select-clip0_459_603"><rect width="16" height="16" fill="white"></rect></clipPath></defs></svg></div><div class="name">font-select.svg</div></div>
 <div class="card" data-copy="<Inline id=&quot;font.svg&quot; alt=&quot;Font&quot; />"><div class="icon"><svg width="16" height="16" viewBox="0 0 16 16" fill="none" xmlns="http://www.w3.org/2000/svg" size="16"><path d="M2.66675 4.66666C2.66675 4.0454 2.66675 3.73477 2.76824 3.48975C2.90357 3.16304 3.16313 2.90348 3.48984 2.76815C3.73486 2.66666 4.04549 2.66666 4.66675 2.66666H11.3334C11.9547 2.66666 12.2653 2.66666 12.5103 2.76815C12.837 2.90348 13.0966 3.16304 13.2319 3.48975C13.3334 3.73477 13.3334 4.0454 13.3334 4.66666M6.00008 13.3333H10.0001M8.00008 2.66666V13.3333" stroke="currentColor" stroke-width="1.25" stroke-linecap="round" stroke-linejoin="round"></path></svg></div><div class="name">font.svg</div></div>
 <div class="card" data-copy="<Inline id=&quot;free-layout.svg&quot; alt=&quot;Free Layout&quot; />"><div class="icon"><svg width="16" height="16" viewBox="0 0 16 16" fill="none" xmlns="http://www.w3.org/2000/svg"><path d="M6.25 3.75H3.25C2.97386 3.75 2.75 3.97386 2.75 4.25V7.25C2.75 7.52614 2.97386 7.75 3.25 7.75H6.25C6.52614 7.75 6.75 7.52614 6.75 7.25V4.25C6.75 3.97386 6.52614 3.75 6.25 3.75Z" stroke="currentColor" stroke-width="1.25" stroke-linecap="round" stroke-linejoin="round"></path><path d="M12.75 2.25H9.75C9.47386 2.25 9.25 2.47386 9.25 2.75V5.75C9.25 6.02614 9.47386 6.25 9.75 6.25H12.75C13.0261 6.25 13.25 6.02614 13.25 5.75V2.75C13.25 2.47386 13.0261 2.25 12.75 2.25Z" stroke="currentColor" stroke-width="1.25" stroke-linecap="round" stroke-linejoin="round"></path><path d="M9.75 9.75H6.75C6.47386 9.75 6.25 9.97386 6.25 10.25V13.25C6.25 13.5261 6.47386 13.75 6.75 13.75H9.75C10.0261 13.75 10.25 13.5261 10.25 13.25V10.25C10.25 9.97386 10.0261 9.75 9.75 9.75Z" stroke="currentColor" stroke-width="1.25" stroke-linecap="round" stroke-linejoin="round"></path></svg></div><div class="name">free-layout.svg</div></div>
@@ -96,7 +99,9 @@
 <div class="card" data-copy="<Inline id=&quot;products.svg&quot; alt=&quot;Products&quot; />"><div class="icon"><svg width="16" height="16" viewBox="0 0 16 16" fill="none" xmlns="http://www.w3.org/2000/svg"><path d="M2.42527 13.782L2.14153 14.3389L2.42527 13.782ZM1.55124 12.908L0.99436 13.1917L1.55124 12.908ZM14.4486 12.908L15.0055 13.1917L14.4486 12.908ZM13.5746 13.782L13.8583 14.3389L13.5746 13.782ZM13.5746 2.21799L13.8583 1.66111L13.5746 2.21799ZM14.4486 3.09202L15.0055 2.80827L14.4486 3.09202ZM2.42527 2.21799L2.14153 1.66111L2.42527 2.21799ZM1.55124 3.09202L0.99436 2.80828L1.55124 3.09202ZM11.1249 4.5C11.1249 4.15482 10.8451 3.875 10.4999 3.875C10.1548 3.875 9.87494 4.15482 9.87494 4.5H10.4999H11.1249ZM7.99994 7V7.625V7ZM6.12494 4.5C6.12494 4.15482 5.84512 3.875 5.49994 3.875C5.15476 3.875 4.87494 4.15482 4.87494 4.5H5.49994H6.12494ZM4.53325 2V2.625H11.4666V2V1.375H4.53325V2ZM14.6666 5.2H14.0416V10.8H14.6666H15.2916V5.2H14.6666ZM11.4666 14V13.375H4.53325V14V14.625H11.4666V14ZM1.33325 10.8H1.95825V5.2H1.33325H0.708252V10.8H1.33325ZM4.53325 14V13.375C3.96289 13.375 3.5727 13.3745 3.27055 13.3498C2.9757 13.3257 2.82013 13.2818 2.70901 13.2251L2.42527 13.782L2.14153 14.3389C2.45823 14.5003 2.79661 14.5653 3.16876 14.5957C3.53362 14.6255 3.98351 14.625 4.53325 14.625V14ZM1.33325 10.8H0.708252C0.708252 11.3497 0.707766 11.7996 0.737576 12.1645C0.767982 12.5366 0.832991 12.875 0.99436 13.1917L1.55124 12.908L2.10812 12.6242C2.0515 12.5131 2.00752 12.3576 1.98342 12.0627C1.95874 11.7606 1.95825 11.3704 1.95825 10.8H1.33325ZM2.42527 13.782L2.70901 13.2251C2.45029 13.0933 2.23994 12.883 2.10812 12.6242L1.55124 12.908L0.99436 13.1917C1.24603 13.6856 1.6476 14.0872 2.14153 14.3389L2.42527 13.782ZM14.6666 10.8H14.0416C14.0416 11.3704 14.0411 11.7606 14.0164 12.0627C13.9923 12.3576 13.9483 12.5131 13.8917 12.6242L14.4486 12.908L15.0055 13.1917C15.1668 12.875 15.2319 12.5366 15.2623 12.1645C15.2921 11.7996 15.2916 11.3497 15.2916 10.8H14.6666ZM11.4666 14V14.625C12.0163 14.625 12.4662 14.6255 12.8311 14.5957C13.2032 14.5653 13.5416 14.5003 13.8583 14.3389L13.5746 13.782L13.2908 13.2251C13.1797 13.2818 13.0241 13.3257 12.7293 13.3498C12.4271 13.3745 12.0369 13.375 11.4666 13.375V14ZM14.4486 12.908L13.8917 12.6242C13.7599 12.883 13.5495 13.0933 13.2908 13.2251L13.5746 13.782L13.8583 14.3389C14.3522 14.0872 14.7538 13.6857 15.0055 13.1917L14.4486 12.908ZM11.4666 2V2.625C12.0369 2.625 12.4271 2.62549 12.7293 2.65017C13.0241 2.67426 13.1797 2.71825 13.2908 2.77487L13.5746 2.21799L13.8583 1.66111C13.5416 1.49974 13.2032 1.43473 12.8311 1.40432C12.4662 1.37451 12.0163 1.375 11.4666 1.375V2ZM14.6666 5.2H15.2916C15.2916 4.65026 15.2921 4.20037 15.2623 3.83551C15.2319 3.46335 15.1668 3.12498 15.0055 2.80828L14.4486 3.09202L13.8917 3.37576C13.9483 3.48688 13.9923 3.64245 14.0164 3.9373C14.0411 4.23945 14.0416 4.62963 14.0416 5.2H14.6666ZM13.5746 2.21799L13.2908 2.77487C13.5495 2.90669 13.7599 3.11704 13.8917 3.37576L14.4486 3.09202L15.0055 2.80827C14.7538 2.31435 14.3522 1.91277 13.8583 1.66111L13.5746 2.21799ZM4.53325 2V1.375C3.98351 1.375 3.53362 1.37451 3.16876 1.40432C2.79661 1.43473 2.45823 1.49974 2.14153 1.66111L2.42527 2.21799L2.70901 2.77487C2.82013 2.71825 2.9757 2.67426 3.27055 2.65017C3.5727 2.62549 3.96289 2.625 4.53325 2.625V2ZM1.33325 5.2H1.95825C1.95825 4.62963 1.95874 4.23945 1.98342 3.9373C2.00752 3.64245 2.0515 3.48688 2.10812 3.37576L1.55124 3.09202L0.99436 2.80828C0.832991 3.12498 0.767982 3.46335 0.737576 3.83551C0.707766 4.20037 0.708252 4.65026 0.708252 5.2H1.33325ZM2.42527 2.21799L2.14153 1.66111C1.6476 1.91278 1.24603 2.31435 0.99436 2.80827L1.55124 3.09202L2.10812 3.37576C2.23994 3.11704 2.45029 2.90669 2.70901 2.77487L2.42527 2.21799ZM10.4999 4.5H9.87494C9.87494 4.99728 9.6774 5.47419 9.32577 5.82583L9.76771 6.26777L10.2097 6.70971C10.7957 6.12366 11.1249 5.3288 11.1249 4.5H10.4999ZM9.76771 6.26777L9.32577 5.82583C8.97414 6.17746 8.49722 6.375 7.99994 6.375V7V7.625C8.82874 7.625 9.6236 7.29576 10.2097 6.70971L9.76771 6.26777ZM7.99994 7V6.375C7.50266 6.375 7.02575 6.17746 6.67412 5.82583L6.23218 6.26777L5.79023 6.70971C6.37629 7.29576 7.17114 7.625 7.99994 7.625V7ZM6.23218 6.26777L6.67412 5.82583C6.32249 5.47419 6.12494 4.99728 6.12494 4.5H5.49994H4.87494C4.87494 5.3288 5.20418 6.12366 5.79023 6.70971L6.23218 6.26777Z" fill="currentColor"></path></svg></div><div class="name">products.svg</div></div>
 <div class="card" data-copy="<Inline id=&quot;radio-selected.svg&quot; alt=&quot;Radio Selected&quot; />"><div class="icon"><svg width="16" height="16" viewBox="0 0 16 16" fill="none" xmlns="http://www.w3.org/2000/svg"><circle cx="8.00005" cy="8.00005" r="3.2" fill="currentColor"></circle></svg></div><div class="name">radio-selected.svg</div></div>
 <div class="card" data-copy="<Inline id=&quot;redo.svg&quot; alt=&quot;Redo&quot; />"><div class="icon"><svg width="16" height="16" viewBox="0 0 16 16" fill="none"><path d="M2.66675 13.3333V12.4C2.66675 10.1598 2.66675 9.03967 3.10272 8.18403C3.48622 7.43138 4.09814 6.81946 4.85079 6.43596C5.70643 5.99999 6.82654 5.99999 9.06675 5.99999H13.3334M13.3334 5.99999L10.0001 9.33332M13.3334 5.99999L10.0001 2.66666" stroke="currentColor" stroke-width="1.25" stroke-linecap="round" stroke-linejoin="round"/></svg></div><div class="name">redo.svg</div></div>
+<div class="card" data-copy="<Inline id=&quot;remote-config.svg&quot; alt=&quot;Remote Config&quot; />"><div class="icon"><svg width="16" height="16" viewBox="0 0 16 16" fill="none" xmlns="http://www.w3.org/2000/svg"><path d="M11.3335 11.3333L14.6668 8L11.3335 4.66667M4.66683 4.66667L1.3335 8L4.66683 11.3333M9.3335 2L6.66683 14" stroke="currentColor" stroke-width="1.25" stroke-linecap="round" stroke-linejoin="round"></path></svg></div><div class="name">remote-config.svg</div></div>
 <div class="card" data-copy="<Inline id=&quot;send-to-device.svg&quot; alt=&quot;Send To Device&quot; />"><div class="icon"><svg width="16" height="16" viewBox="0 0 16 16" fill="none"><path d="M6.03067 3.26068L6.31442 2.7038V2.7038L6.03067 3.26068ZM5.73933 2.96934L6.29621 2.68559V2.68559L5.73933 2.96934ZM9.594 2.96934L9.03713 2.68559L9.03713 2.68559L9.594 2.96934ZM9.30266 3.26068L9.01892 2.7038L9.01892 2.7038L9.30266 3.26068ZM5.13333 15.2917C5.47851 15.2917 5.75833 15.0119 5.75833 14.6667C5.75833 14.3215 5.47851 14.0417 5.13333 14.0417V14.6667V15.2917ZM3.72801 14.5213L3.44427 15.0782L3.44427 15.0782L3.72801 14.5213ZM3.14532 13.9387L2.58845 14.2224L2.58845 14.2224L3.14532 13.9387ZM11.6053 1.47867L11.8891 0.921789V0.921789L11.6053 1.47867ZM12.188 2.06136L11.6311 2.3451V2.3451L12.188 2.06136ZM3.72801 1.47867L4.01176 2.03555L4.01176 2.03555L3.72801 1.47867ZM3.14532 2.06136L3.7022 2.3451V2.3451L3.14532 2.06136ZM11.7083 4.67649C11.7083 5.02167 11.9882 5.30149 12.3333 5.30149C12.6785 5.30149 12.9583 5.02167 12.9583 4.67649H12.3333H11.7083ZM8.66107 14.3741L9.00775 14.8941V14.8941L8.66107 14.3741ZM7.97346 14.7243L7.93621 15.3482L7.97346 14.7243ZM7.6455 14.5488L8.14394 14.1717L7.6455 14.5488ZM13.3346 10.075L12.988 10.595V10.595L13.3346 10.075ZM13.8315 10.4964L13.2542 10.7358L13.8315 10.4964ZM13.3346 11.2584L12.988 10.7383H12.988L13.3346 11.2584ZM13.8315 10.8369L13.2542 10.5975L13.8315 10.8369ZM8.66107 6.95928L9.00775 6.43925V6.43925L8.66107 6.95928ZM7.97346 6.60903L7.93621 5.98514L7.97346 6.60903ZM7.6455 6.78455L8.14394 7.16162L7.6455 6.78455ZM9.66667 1.33334H9.04167V2.26668H9.66667H10.2917V1.33334H9.66667ZM8.6 3.33334V2.70834H6.73333V3.33334V3.95834H8.6V3.33334ZM5.66667 2.26668H6.29167V1.33334H5.66667H5.04167V2.26668H5.66667ZM6.73333 3.33334V2.70834C6.53634 2.70834 6.42618 2.70786 6.34636 2.70134C6.27385 2.69541 6.28293 2.68776 6.31442 2.7038L6.03067 3.26068L5.74693 3.81756C5.92103 3.90627 6.09475 3.93494 6.24457 3.94718C6.3871 3.95883 6.55696 3.95834 6.73333 3.95834V3.33334ZM5.66667 2.26668H5.04167C5.04167 2.44305 5.04118 2.61291 5.05283 2.75544C5.06507 2.90526 5.09374 3.07898 5.18245 3.25308L5.73933 2.96934L6.29621 2.68559C6.31225 2.71708 6.3046 2.72616 6.29867 2.65365C6.29215 2.57383 6.29167 2.46367 6.29167 2.26668H5.66667ZM6.03067 3.26068L6.31442 2.7038C6.30658 2.69981 6.3002 2.69343 6.29621 2.68559L5.73933 2.96934L5.18245 3.25308C5.30629 3.49612 5.50389 3.69372 5.74693 3.81756L6.03067 3.26068ZM9.66667 2.26668H9.04167C9.04167 2.46367 9.04118 2.57383 9.03466 2.65365C9.02874 2.72616 9.02108 2.71708 9.03713 2.68559L9.594 2.96934L10.1509 3.25308C10.2396 3.07898 10.2683 2.90526 10.2805 2.75544C10.2922 2.61291 10.2917 2.44305 10.2917 2.26668H9.66667ZM8.6 3.33334V3.95834C8.77637 3.95834 8.94624 3.95883 9.08876 3.94718C9.23858 3.93494 9.41231 3.90627 9.58641 3.81756L9.30266 3.26068L9.01892 2.7038C9.05041 2.68776 9.05949 2.69541 8.98697 2.70134C8.90716 2.70786 8.797 2.70834 8.6 2.70834V3.33334ZM9.594 2.96934L9.03713 2.68559C9.03313 2.69343 9.02676 2.69981 9.01892 2.7038L9.30266 3.26068L9.58641 3.81756C9.82945 3.69372 10.027 3.49612 10.1509 3.25308L9.594 2.96934ZM5.13333 1.33334V1.95834H5.66667V1.33334V0.708344H5.13333V1.33334ZM5.66667 1.33334V1.95834H9.66667V1.33334V0.708344H5.66667V1.33334ZM9.66667 1.33334V1.95834H10.2V1.33334V0.708344H9.66667V1.33334ZM3 12.5333H3.625V3.46668H3H2.375V12.5333H3ZM5.13333 14.6667V14.0417C4.74965 14.0417 4.49948 14.0412 4.3085 14.0256C4.12481 14.0106 4.05157 13.9848 4.01176 13.9645L3.72801 14.5213L3.44427 15.0782C3.68967 15.2033 3.94572 15.2501 4.20671 15.2714C4.4604 15.2922 4.77028 15.2917 5.13333 15.2917V14.6667ZM3 12.5333H2.375C2.375 12.8964 2.37451 13.2063 2.39524 13.46C2.41656 13.721 2.46341 13.977 2.58845 14.2224L3.14532 13.9387L3.7022 13.6549C3.68192 13.6151 3.6561 13.5419 3.64109 13.3582C3.62549 13.1672 3.625 12.917 3.625 12.5333H3ZM3.72801 14.5213L4.01176 13.9645C3.87847 13.8966 3.77011 13.7882 3.7022 13.6549L3.14532 13.9387L2.58845 14.2224C2.7762 14.5909 3.07579 14.8905 3.44427 15.0782L3.72801 14.5213ZM10.2 1.33334V1.95834C10.5837 1.95834 10.8339 1.95883 11.0248 1.97443C11.2085 1.98944 11.2818 2.01526 11.3216 2.03555L11.6053 1.47867L11.8891 0.921789C11.6437 0.796751 11.3876 0.749908 11.1266 0.728585C10.8729 0.707857 10.5631 0.708344 10.2 0.708344V1.33334ZM12.3333 3.46668H12.9583C12.9583 3.10362 12.9588 2.79374 12.9381 2.54005C12.9168 2.27906 12.8699 2.02301 12.7449 1.77761L12.188 2.06136L11.6311 2.3451C11.6514 2.38492 11.6772 2.45816 11.6922 2.64184C11.7078 2.83282 11.7083 3.083 11.7083 3.46668H12.3333ZM11.6053 1.47867L11.3216 2.03555C11.4549 2.10346 11.5632 2.21182 11.6311 2.3451L12.188 2.06136L12.7449 1.77761C12.5571 1.40913 12.2575 1.10954 11.8891 0.921789L11.6053 1.47867ZM5.13333 1.33334V0.708344C4.77028 0.708344 4.4604 0.707857 4.20671 0.728585C3.94572 0.749908 3.68967 0.796751 3.44427 0.921789L3.72801 1.47867L4.01176 2.03555C4.05157 2.01526 4.12481 1.98944 4.3085 1.97443C4.49948 1.95883 4.74965 1.95834 5.13333 1.95834V1.33334ZM3 3.46668H3.625C3.625 3.083 3.62549 2.83282 3.64109 2.64184C3.6561 2.45816 3.68192 2.38492 3.7022 2.3451L3.14532 2.06136L2.58845 1.77761C2.46341 2.02301 2.41656 2.27906 2.39524 2.54005C2.37451 2.79374 2.375 3.10362 2.375 3.46668H3ZM3.72801 1.47867L3.44427 0.921789C3.07578 1.10954 2.7762 1.40913 2.58845 1.77761L3.14532 2.06136L3.7022 2.3451C3.77011 2.21182 3.87848 2.10346 4.01176 2.03555L3.72801 1.47867ZM12.3333 3.46668H11.7083V4.67649H12.3333H12.9583V3.46668H12.3333ZM8.66107 6.95928L8.31438 7.47931L12.988 10.595L13.3346 10.075L13.6813 9.55497L9.00775 6.43925L8.66107 6.95928ZM13.3346 11.2584L12.988 10.7383L8.31438 13.8541L8.66107 14.3741L9.00775 14.8941L13.6813 11.7784L13.3346 11.2584ZM7.5555 13.7824H8.1805V7.55096H7.5555H6.9305V13.7824H7.5555ZM8.66107 14.3741L8.31438 13.8541C8.12448 13.9807 8.01785 14.051 7.94063 14.0928C7.85784 14.1377 7.90463 14.0941 8.01071 14.1004L7.97346 14.7243L7.93621 15.3482C8.19119 15.3634 8.40221 15.2644 8.53622 15.1918C8.67579 15.1162 8.83852 15.0069 9.00775 14.8941L8.66107 14.3741ZM7.5555 13.7824H6.9305C6.9305 13.9858 6.92987 14.1818 6.94436 14.3399C6.95827 14.4917 6.99294 14.7222 7.14705 14.9259L7.6455 14.5488L8.14394 14.1717C8.20806 14.2565 8.19774 14.3196 8.18914 14.2258C8.18113 14.1384 8.1805 14.0106 8.1805 13.7824H7.5555ZM7.97346 14.7243L8.01071 14.1004C8.06341 14.1036 8.11209 14.1296 8.14394 14.1717L7.6455 14.5488L7.14705 14.9259C7.33571 15.1753 7.62406 15.3296 7.93621 15.3482L7.97346 14.7243ZM13.3346 10.075L12.988 10.595C13.0635 10.6454 13.1235 10.6854 13.1747 10.7208C13.226 10.7563 13.2597 10.7812 13.2826 10.7996C13.3349 10.8418 13.2881 10.8178 13.2542 10.7358L13.8315 10.4964L14.4088 10.257C14.3231 10.0504 14.1763 9.91456 14.0673 9.82664C13.9593 9.73955 13.8197 9.64723 13.6813 9.55497L13.3346 10.075ZM13.3346 11.2584L13.6813 11.7784C13.8197 11.6861 13.9593 11.5938 14.0673 11.5067C14.1763 11.4188 14.3231 11.283 14.4088 11.0764L13.8315 10.8369L13.2542 10.5975C13.2881 10.5156 13.3349 10.4915 13.2826 10.5337C13.2597 10.5522 13.226 10.577 13.1747 10.6126C13.1235 10.6479 13.0635 10.688 12.988 10.7383L13.3346 11.2584ZM13.8315 10.4964L13.2542 10.7358C13.2358 10.6916 13.2358 10.6418 13.2542 10.5975L13.8315 10.8369L14.4088 11.0764C14.5176 10.8141 14.5176 10.5193 14.4088 10.257L13.8315 10.4964ZM8.66107 6.95928L9.00775 6.43925C8.83852 6.32642 8.67579 6.21718 8.53622 6.14154C8.40221 6.06892 8.19119 5.96992 7.93621 5.98514L7.97346 6.60903L8.01071 7.23292C7.90463 7.23925 7.85784 7.19566 7.94063 7.24053C8.01785 7.28238 8.12448 7.35271 8.31438 7.47931L8.66107 6.95928ZM7.5555 7.55096H8.1805C8.1805 7.32273 8.18113 7.19499 8.18914 7.10753C8.19774 7.01376 8.20806 7.07686 8.14394 7.16162L7.6455 6.78455L7.14705 6.40748C6.99294 6.6112 6.95827 6.8417 6.94436 6.99348C6.92987 7.15157 6.9305 7.34756 6.9305 7.55096H7.5555ZM7.97346 6.60903L7.93621 5.98514C7.62406 6.00378 7.33571 6.1581 7.14705 6.40748L7.6455 6.78455L8.14394 7.16162C8.11209 7.20372 8.06341 7.22977 8.01071 7.23292L7.97346 6.60903Z" fill="currentColor"/></svg></div><div class="name">send-to-device.svg</div></div>
+<div class="card" data-copy="<Inline id=&quot;settings.svg&quot; alt=&quot;Settings&quot; />"><div class="icon"><svg width="16" height="16" viewBox="0 0 16 16" fill="none" xmlns="http://www.w3.org/2000/svg"><path d="M2 5.33337L10 5.33337M10 5.33337C10 6.43794 10.8954 7.33337 12 7.33337C13.1046 7.33337 14 6.43794 14 5.33337C14 4.2288 13.1046 3.33337 12 3.33337C10.8954 3.33337 10 4.22881 10 5.33337ZM6 10.6667L14 10.6667M6 10.6667C6 11.7713 5.10457 12.6667 4 12.6667C2.89543 12.6667 2 11.7713 2 10.6667C2 9.56214 2.89543 8.66671 4 8.66671C5.10457 8.66671 6 9.56214 6 10.6667Z" stroke="currentColor" stroke-width="1.25" stroke-linecap="round" stroke-linejoin="round"></path></svg></div><div class="name">settings.svg</div></div>
 <div class="card" data-copy="<Inline id=&quot;strikethrough.svg&quot; alt=&quot;Strikethrough&quot; />"><div class="icon"><svg width="16" height="16" viewBox="0 0 16 16" fill="none" xmlns="http://www.w3.org/2000/svg"><path d="M4 10.6667C4 12.1394 5.19391 13.3334 6.66667 13.3334H9.33333C10.8061 13.3334 12 12.1394 12 10.6667C12 9.19393 10.8061 8.00002 9.33333 8.00002M12 5.33335C12 3.86059 10.8061 2.66669 9.33333 2.66669H6.66667C5.19391 2.66669 4 3.86059 4 5.33335M2 8.00002H14" stroke="currentColor" stroke-width="1.25" stroke-linecap="round" stroke-linejoin="round"></path></svg></div><div class="name">strikethrough.svg</div></div>
 <div class="card" data-copy="<Inline id=&quot;styles.svg&quot; alt=&quot;Styles&quot; />"><div class="icon"><svg width="16" height="16" viewBox="0 0 16 16" fill="none" xmlns="http://www.w3.org/2000/svg"><g clip-path="url(#styles-clip0_459_303)"><path d="M1.3335 8.00001C1.3335 11.6819 4.31826 14.6667 8.00016 14.6667C9.10473 14.6667 10.0002 13.7712 10.0002 12.6667V12.3333C10.0002 12.0237 10.0002 11.8689 10.0173 11.739C10.1354 10.8415 10.8416 10.1353 11.7391 10.0171C11.8691 10 12.0239 10 12.3335 10H12.6668C13.7714 10 14.6668 9.10458 14.6668 8.00001C14.6668 4.31811 11.6821 1.33334 8.00016 1.33334C4.31826 1.33334 1.3335 4.31811 1.3335 8.00001Z" stroke="currentColor" stroke-width="1.25" stroke-linecap="round" stroke-linejoin="round"></path><path d="M4.66683 8.66668C5.03502 8.66668 5.3335 8.3682 5.3335 8.00001C5.3335 7.63182 5.03502 7.33334 4.66683 7.33334C4.29864 7.33334 4.00016 7.63182 4.00016 8.00001C4.00016 8.3682 4.29864 8.66668 4.66683 8.66668Z" stroke="currentColor" stroke-width="1.25" stroke-linecap="round" stroke-linejoin="round"></path><path d="M10.6668 6.00001C11.035 6.00001 11.3335 5.70153 11.3335 5.33334C11.3335 4.96515 11.035 4.66668 10.6668 4.66668C10.2986 4.66668 10.0002 4.96515 10.0002 5.33334C10.0002 5.70153 10.2986 6.00001 10.6668 6.00001Z" stroke="currentColor" stroke-width="1.25" stroke-linecap="round" stroke-linejoin="round"></path><path d="M6.66683 5.33334C7.03502 5.33334 7.3335 5.03487 7.3335 4.66668C7.3335 4.29849 7.03502 4.00001 6.66683 4.00001C6.29864 4.00001 6.00016 4.29849 6.00016 4.66668C6.00016 5.03487 6.29864 5.33334 6.66683 5.33334Z" stroke="currentColor" stroke-width="1.25" stroke-linecap="round" stroke-linejoin="round"></path></g><defs><clippath id="styles-clip0_459_303"><rect width="16" height="16" fill="white"></rect></clippath></defs></svg></div><div class="name">styles.svg</div></div>
 <div class="card" data-copy="<Inline id=&quot;text-layout-1.svg&quot; alt=&quot;Text Layout 1&quot; />"><div class="icon"><svg width="16" height="16" viewBox="0 0 16 16" fill="none" xmlns="http://www.w3.org/2000/svg"><path d="M2 2V14M4.66667 8H14M14 8L9.33333 12.6667M14 8L9.33333 3.33333" stroke="currentColor" stroke-width="1.25" stroke-linecap="round" stroke-linejoin="round"></path></svg></div><div class="name">text-layout-1.svg</div></div>